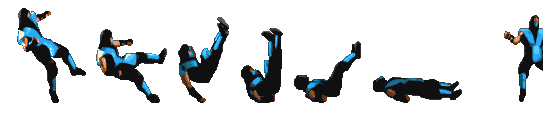
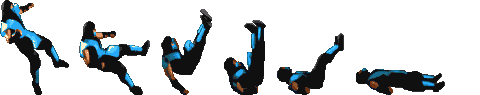
sweep kick and roundhouse

diff --git a/subzero_animations_settings.py b/subzero_animations_settings.py
@@ -11,13 +11,20 @@ subzero_move_animations = {'stand': [12, [51] * 12, [1] * 12, [0, 11], True, Fal
                            'move_jump': [8, [49] * 8, [1] * 8, [1, 7], False, False],
                            'duck': [3, [52] * 3, [1] * 5, [2, 2], False, False],
                            'block': [1, [50], [1], [0, 0], False, False],
+
                            'high_punch': [3, [60, 60, 71], [1, 1, 5], [], False, [[2], 'weak_hit', 30, [4, 0]]],
                            'low_punch': [2, [60, 70], [1, 5], [], False, [[1], 'weak_hit', 30, [4, 0]]],
                            'high_kick': [6, [55, 56, 45, 65, 88, 64], [1, 1, 1, 1, 3, 1], [], False, [[4], 'weak_hit', 50, [6, 0]]],
                            'low_kick': [6, [55, 56, 45, 63, 92, 64], [1, 1, 1, 1, 3, 1], [], False, [[4], 'weak_hit', 50, [6, 0]]],
-                           'uppercut': [6, [56, 60, 82, 53, 52, 55], [1, 1, 1, 6, 1, 1], [], False, [[2, 3, 4], 'heavy_hit', 70, [10, 20]]],
+                           'uppercut': [6, [56, 60, 82, 53, 52, 55], [1, 1, 1, 6, 1, 1], [], False, [[2, 3, 4], 'heavy_hit', 60, [10, -20]]],
+                           'sweep_kick': [8, [57, 55, 56, 89, 88, 53, 79, 50], [1] * 8, [], False, [[3, 4], 'trip', 40, [0, 0]]],
+                           'roundhouse': [8, [57, 62, 87, 61, 53, 54, 60, 50], [1] * 8, [], False, [[2, 3], 'heavy_hit', 70, [10, -20]]],
+                           
                            'weak_hit': [3, [56, 59, 60], [2] * 3, [], False, False],
-                           'heavy_hit': [6, [79, 82, 63, 53, 79, 100], [2, 2, 6, 2, 2, 3], [], False, False],
+                           'heavy_hit': [6, [79, 82, 63, 53, 79, 100], [2, 2, 5, 2, 2, 2], [], False, False],
+                           'trip': [6, [72, 70, 68, 60, 77, 68], [1] * 6, [], False, False],
+                           'stand_up': [5, [45, 46, 53, 72, 56], [1] * 5, [], False, False],
+
                            'dead': [7, [49, 54, 50, 49, 56, 52, 52], [2] * 7, [0, 6], False, False]}
 
-subzero_attack_animations = ['low_punch', 'high_punch', 'low_kick', 'high_kick', 'uppercut']
+subzero_attack_animations = ['low_punch', 'high_punch', 'low_kick', 'high_kick', 'uppercut', 'sweep_kick']

diff --git a/update_anim.py b/update_anim.py
@@ -17,10 +17,16 @@ def update_anim(fighter):
             fighter.set_anim('low_punch')
 
         if fighter.attack == 'high_kick' and fighter.cur_anim != 'high_kick' and fighter.on_ground:
-            fighter.set_anim('high_kick')
+            if fighter.previos_moves[-1][0] == 'walk_b' and fighter.cur_anim != 'roundhouse':
+                fighter.set_anim('roundhouse')
+            elif fighter.cur_anim != 'roundhouse':
+                fighter.set_anim('high_kick')
 
         if fighter.attack == 'low_kick' and fighter.cur_anim != 'low_kick' and fighter.on_ground:
-            fighter.set_anim('low_kick')
+            if fighter.previos_moves[-1][0] == 'walk_b' and fighter.cur_anim != 'sweep_kick':
+                fighter.set_anim('sweep_kick')
+            elif fighter.cur_anim != 'sweep_kick':
+                fighter.set_anim('low_kick')
 
     else:
         if fighter.on_ground and fighter.ducked and fighter.cur_anim != 'duck':

diff --git a/update_character_img.py b/update_character_img.py
@@ -2,6 +2,7 @@ import pygame
 from update_anim import update_anim
 from change_fighter_position import change_position
 from turn_frame import turn_frame
+from set_char_anim import set_char_anim
 
 
 def update_img(char, side, f=False):
@@ -15,12 +16,15 @@ def update_img(char, side, f=False):
         if char.cur_frame == len(char.curent_animation_settings[2]) - 1:
             char.cur_anim = ''
             char.attack = False
-            char.getting_damage = False
             char.hit = False
             char.vector = [0, 0]
             char.can_turn = True
             turn_frame(char, side)
-            update_anim(char)
+            if char.cur_anim == 'trip':
+                set_char_anim(char, 'stand_up')
+            else:
+                char.getting_damage = False
+                update_anim(char)
 
         else:
             char.cur_frame += 1

diff --git a/game_cycle.py b/game_cycle.py
@@ -84,7 +84,6 @@ def game_cycle(screen, char, enemy, camera, cf, gr, chb, ehb, alg, all_sprites, 
 
 
         # char updates
-        print(char.damage)
         update_pos_and_anim(char, walls, gr, enemy, True)
         update_pos_and_anim(enemy, walls, gr, char)
         if pygame.sprite.collide_mask(char, enemy):

diff --git a/attack_list.py b/attack_list.py
@@ -81,4 +81,5 @@ class AttackExecution(pygame.sprite.Sprite):
         font = pygame.font.SysFont('ToughSansRegular', 28)
         for i in self.points:
             self.image.blit(font.render(i[2], 2, i[3]), (i[0], i[1]))
+        self.image.set_alpha(200)
         self.rect = self.image.get_rect()
